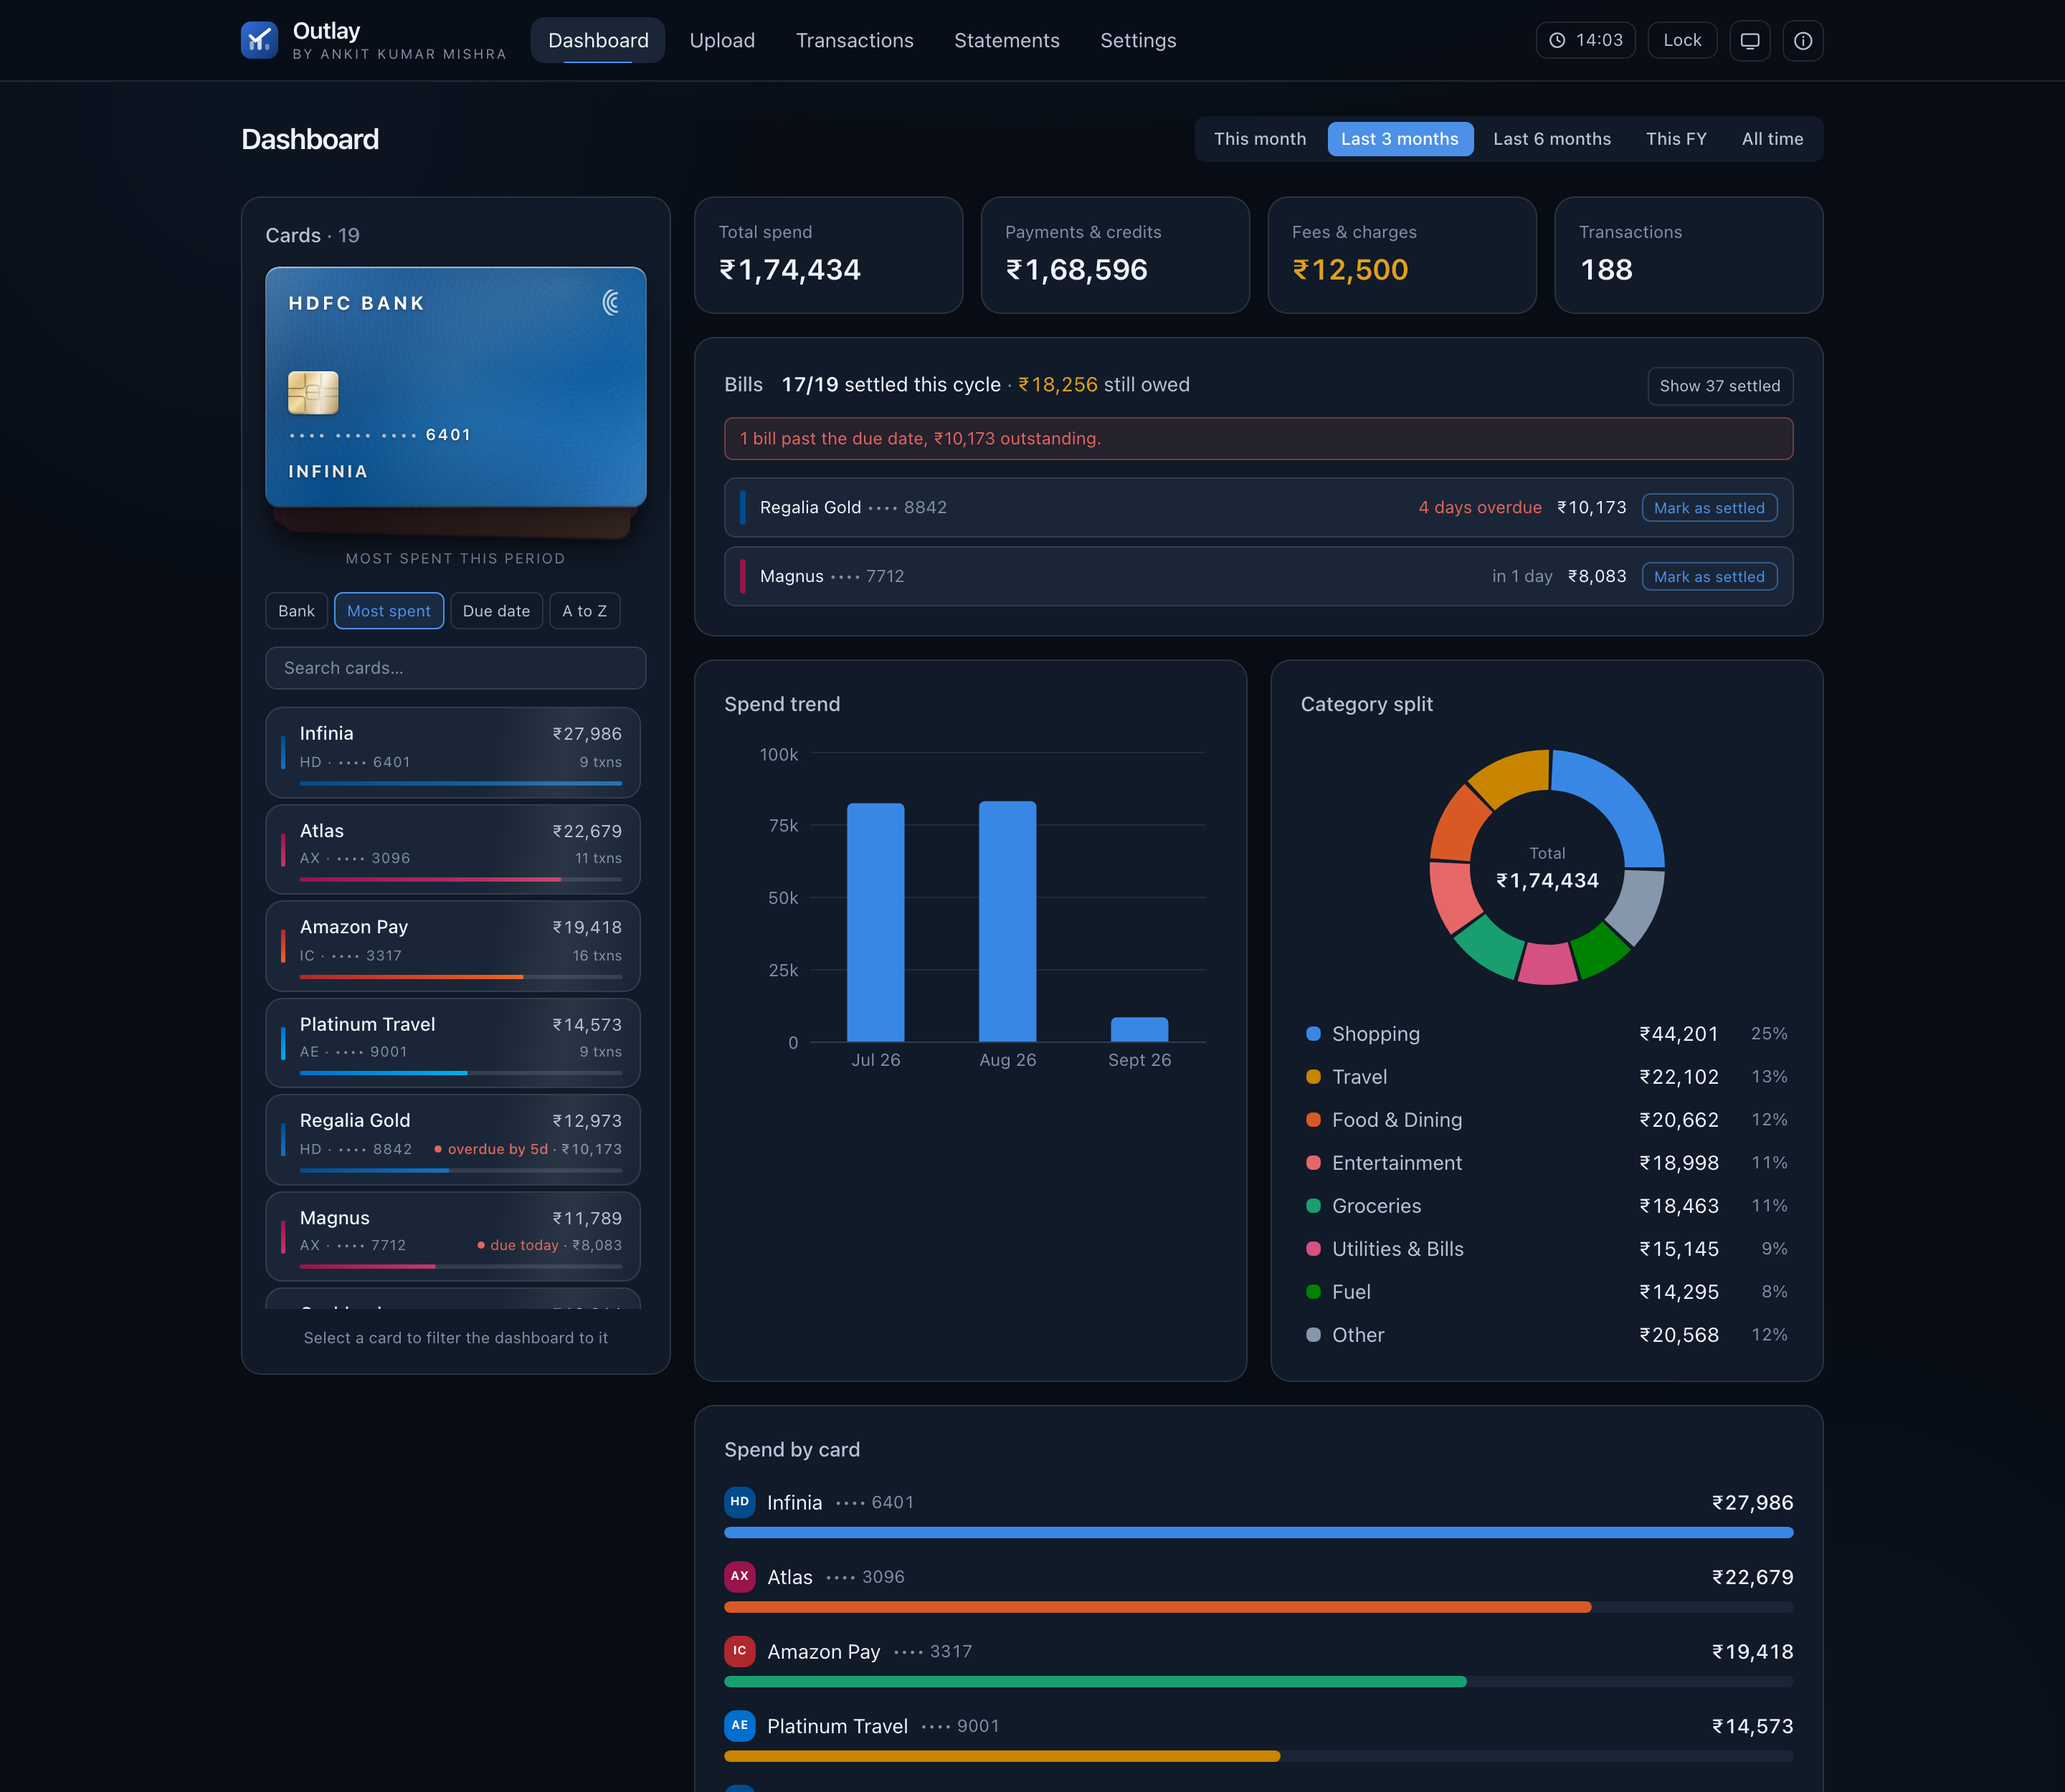
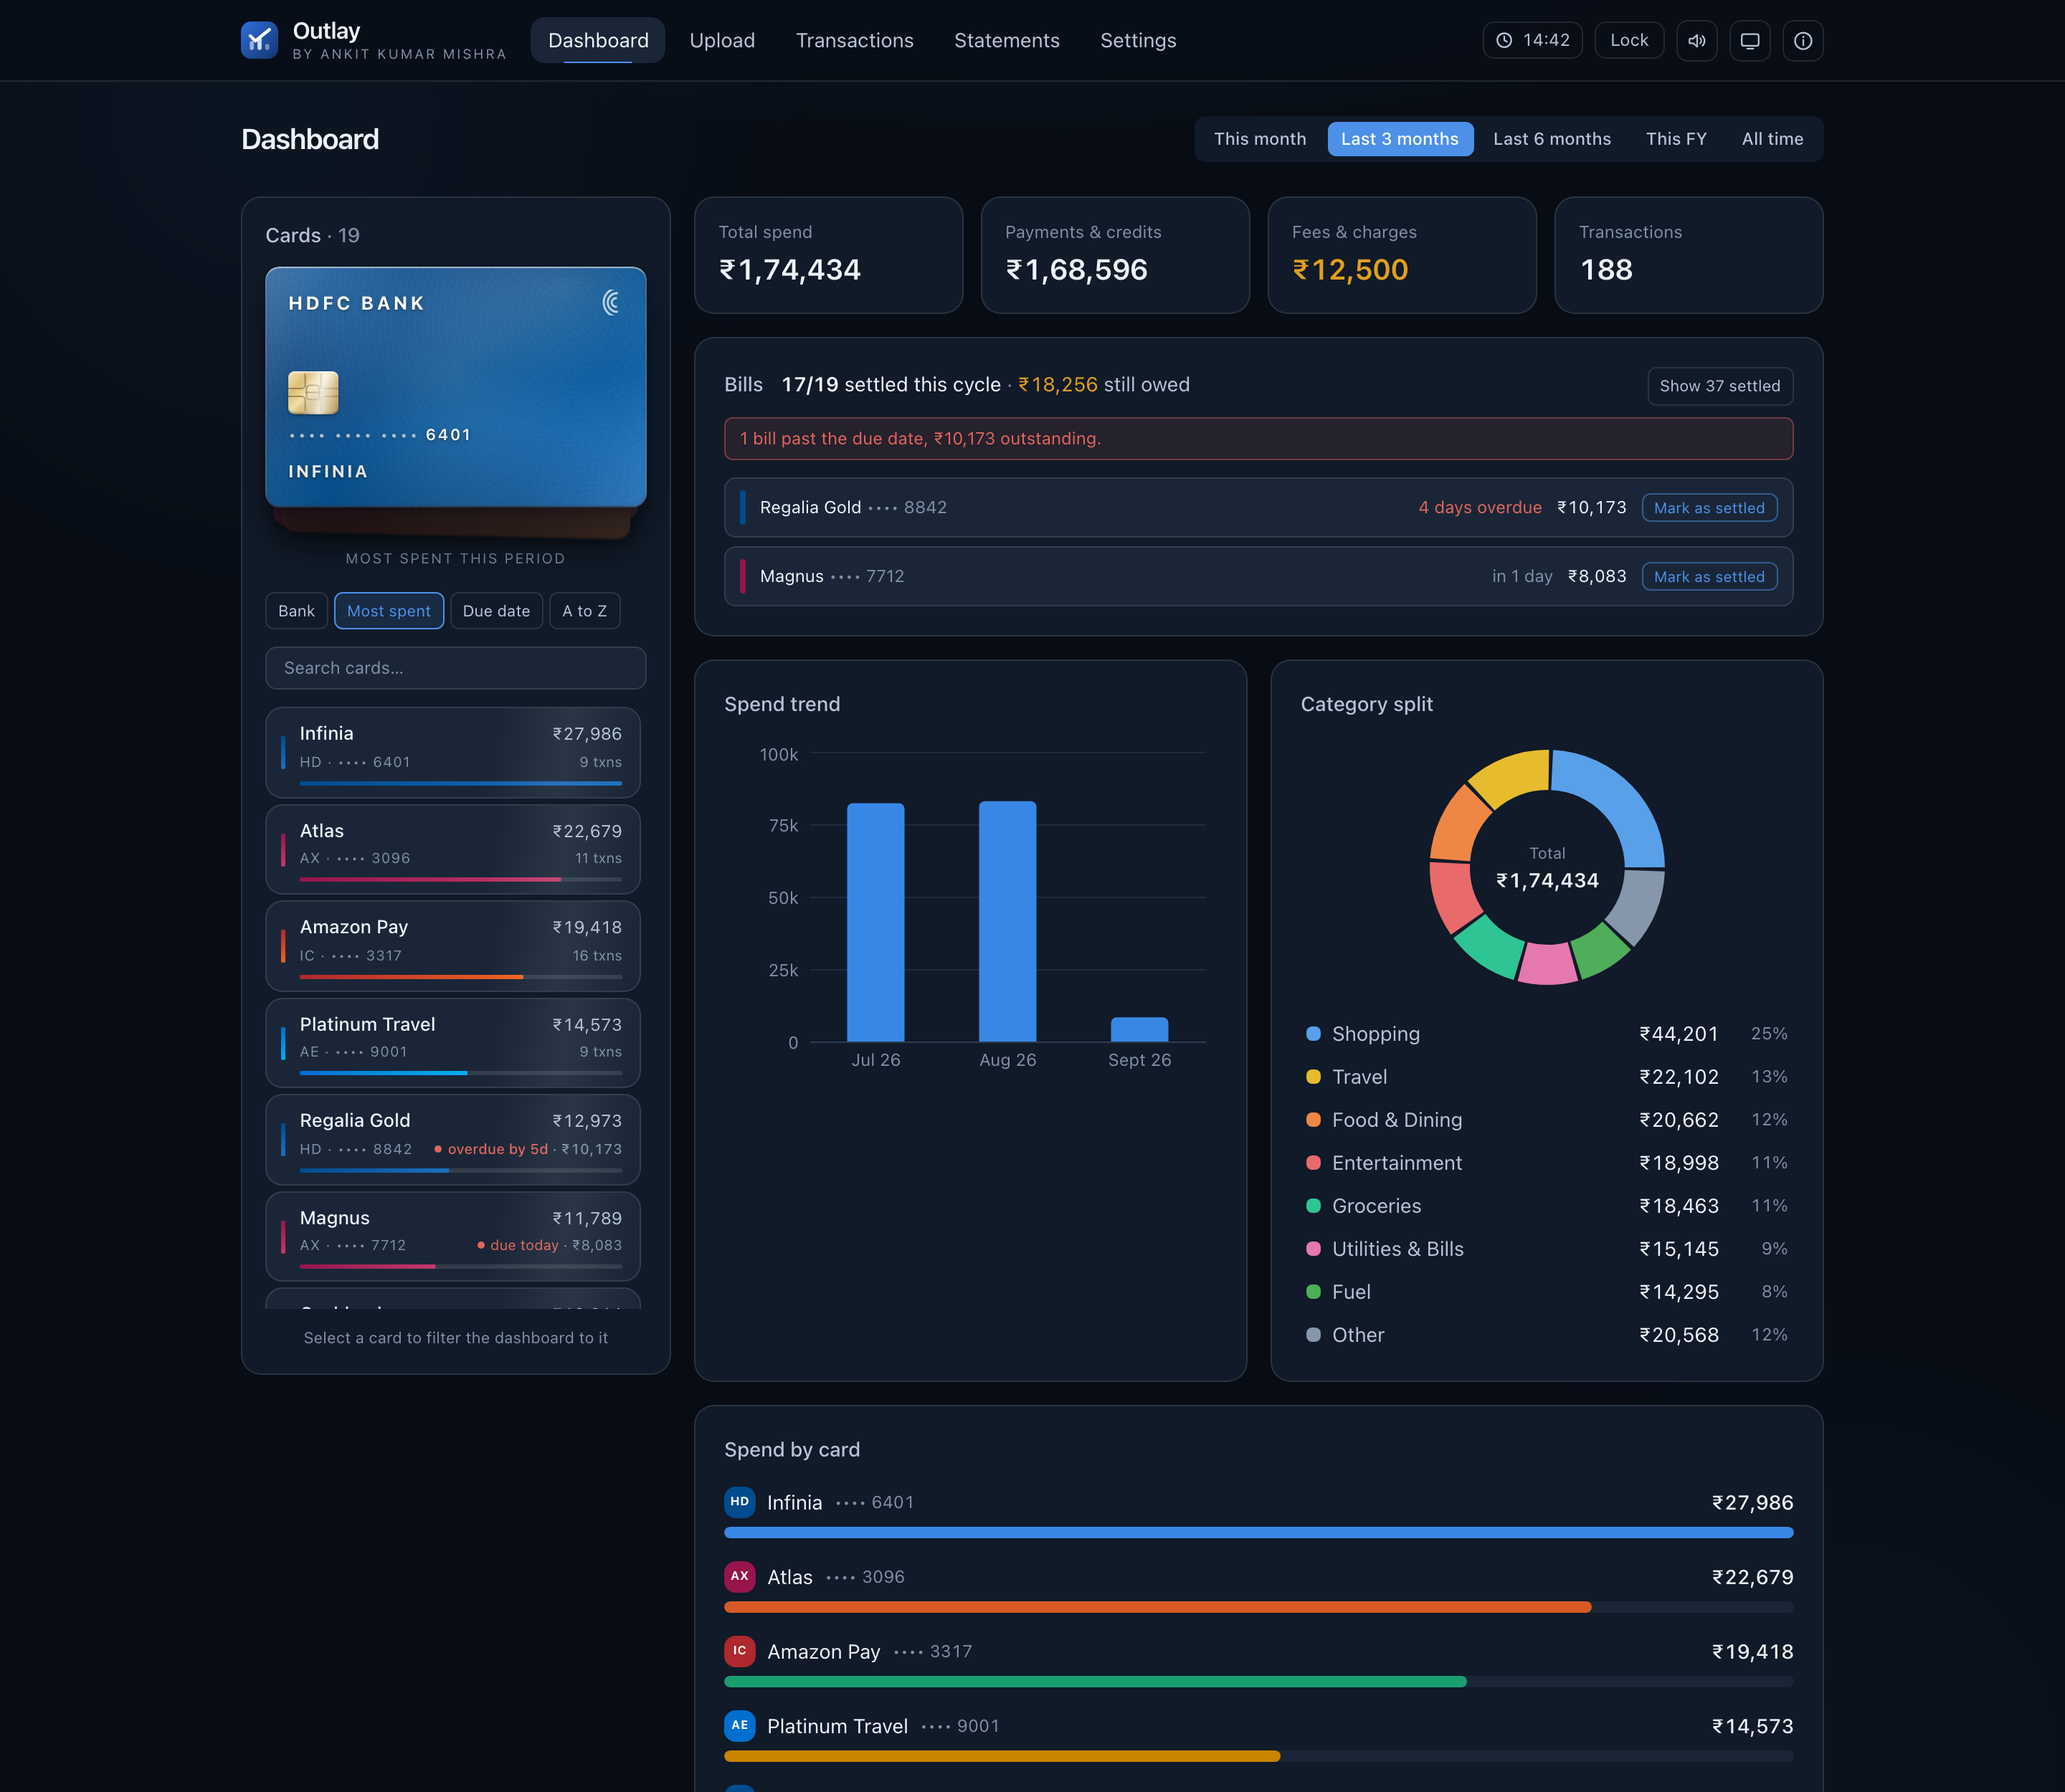
Refresh screenshots and restructure the README
Recapture every screen after the category colours, AI review control and calendar badge changes. Add a calendar screenshot and caption each image. Expand the deploy section with the secret generation command and the variable table.

Changed region(s): [[0.6875, 0.4056, 0.8125, 0.5616], [0.75, 0.0, 0.8125, 0.0312]]

diff --git a/README.md b/README.md
@@ -14,27 +14,43 @@ Scope is narrow on purpose: credit card statements only. Not budgeting, not net 
 
 ## A look at it
 
-<p align="center">
-  <img src="docs/screenshots/dashboard.png" width="900" alt="Dashboard: nineteen cards, spend tiles, bills awaiting settlement, spend trend, category split">
-</p>
+**The dashboard.** Every card you hold, ranked by spend, with the bills of the current cycle and how many are still outstanding.
 
 <p align="center">
-  <img src="docs/screenshots/statement.png" width="900" alt="Statement detail: verification checks with pass, warning and failure states, and the transaction list">
+  <img src="docs/screenshots/dashboard.png" width="900" alt="Dashboard: nineteen cards ranked by spend, four headline figures, a bills panel showing seventeen of nineteen settled this cycle, spend trend and category split">
 </p>
+
+**A statement, verified.** Twelve checks run before anything is saved, and the result is stored with the statement. Every category is a dropdown, so a wrong guess takes one click to fix.
 
 <p align="center">
-  <img src="docs/screenshots/statements.png" width="900" alt="Statement list: every statement across every card, with its settled status and check summary">
+  <img src="docs/screenshots/statement.png" width="900" alt="Statement detail: verification checks with passes and warnings, then the transaction list with a colour-coded category dropdown on every row">
 </p>
+
+**The calendar.** Daily spend and every payment due on one grid. Amber means a bill falls due, green means it is settled.
 
 <p align="center">
-  <img src="docs/screenshots/transactions.png" width="900" alt="Transactions page: every row across every card, filtered by card, statement and category">
+  <img src="docs/screenshots/calendar.png" width="900" alt="Calendar for September: spend heat per day, amber badges for bills due and green ticks for settled ones">
 </p>
+
+**Every transaction, one page.** Filter by card, by statement, by category or by text, and correct a category inline.
 
 <p align="center">
-  <img src="docs/screenshots/upload.png" width="900" alt="Upload: a month of PDFs at once, each unlocked and matched to a card">
+  <img src="docs/screenshots/transactions.png" width="900" alt="Transactions page: filters for search, card, statement and category, and a table of every transaction across every card">
 </p>
 
-The landing page runs the whole dashboard on invented cards and invented spend, so you can try it before signing up.
+**Statements.** What has been read, what it checked out at, and what is still to pay.
+
+<p align="center">
+  <img src="docs/screenshots/statements.png" width="900" alt="Statement list: every statement across every card with its settled status and check summary">
+</p>
+
+**Upload.** A month of PDFs at once. Each one is unlocked, read and matched to a card before anything is written.
+
+<p align="center">
+  <img src="docs/screenshots/upload.png" width="900" alt="Upload screen: drop a month of password-protected statement PDFs at once">
+</p>
+
+The landing page runs this whole dashboard on invented cards and invented spend, so you can try it before signing up.
 
 ---
 
@@ -237,7 +253,27 @@ Create an account with the invite code the keygen printed, then enter the cardho
 
 ## Deploy your own
 
-Free tier end to end: Neon for the database, Vercel for the app. Set `DATABASE_URL` to the pooled Neon connection string, `APP_ENCRYPTION_KEY` to a fresh 32-byte hex key, and `SIGNUP_INVITE_CODE` to a secret only you hold. The app returns 503 on every route until all three are present. `OPENAI_API_KEY` is optional and the only thing that ever costs money.
+Free tier end to end: Neon for the database, Vercel for the app.
+
+Generate the two secrets, printed and not written to any file:
+
+```bash
+node -e "const c=require('node:crypto');console.log('APP_ENCRYPTION_KEY='+c.randomBytes(32).toString('hex'));console.log('SIGNUP_INVITE_CODE='+c.randomBytes(9).toString('base64url'))"
+```
+
+Set three variables in Vercel, for Production and Preview:
+
+| Variable | Value |
+| --- | --- |
+| `DATABASE_URL` | the **pooled** Neon connection string |
+| `APP_ENCRYPTION_KEY` | the 64 hex characters printed above |
+| `SIGNUP_INVITE_CODE` | the code printed above, which is what you give people |
+
+The app returns 503 on every route until all three are present, so a half-configured deployment never serves a login form.
+
+`APP_ENCRYPTION_KEY` is not rotatable. Every name, date of birth, card digit and statement password is sealed under a key derived from it, so changing it after data exists makes that data permanently unreadable. Use a different key from your local one, and keep a copy somewhere safe.
+
+`OPENAI_API_KEY` is optional and the only variable that ever costs money.
 
 ## Tech stack
 
